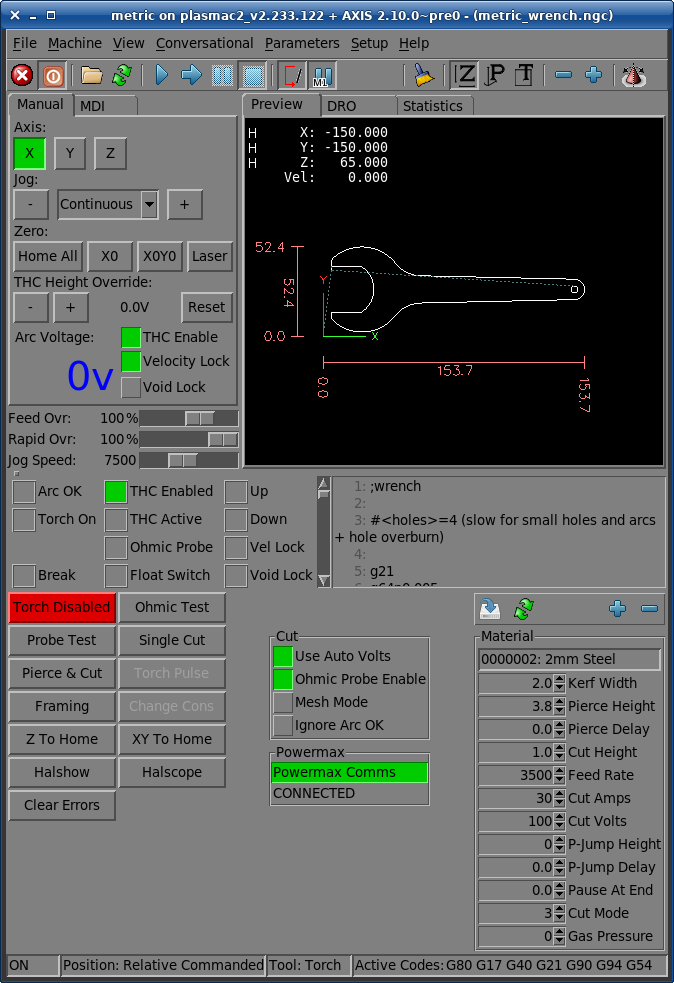
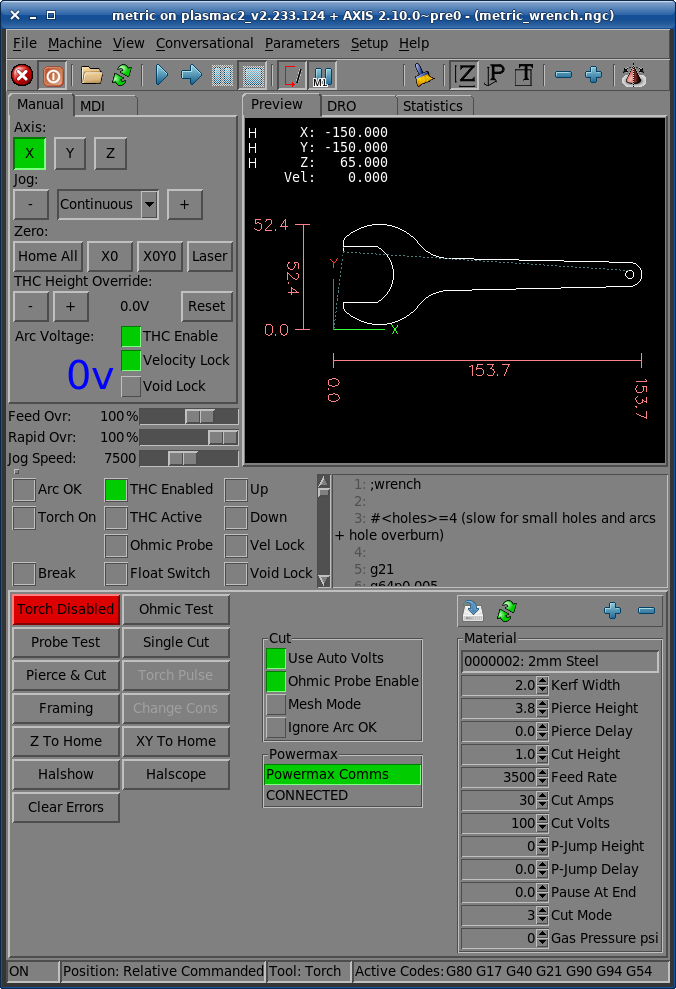
portrait mode enhancements fix pane resizing

diff --git a/source/versions.html b/source/versions.html
@@ -30,6 +30,13 @@
 </table>
 <!--- ****** ADD NEXT VERSION BELOW THESE LINES ****** --->
 <!--- ------------------------------------------------ --->
+<br><b>v2.233.125</b> 2022 Dec 20
+<ul style="margin:0;">
+    <li>portrait mode enhancements</li>
+    <li>fix pane sizing</li>
+    
+</ul>
+
 <br><b>v2.233.124</b> 2022 Dec 19
 <ul style="margin:0;">
     <li>allow orientation selection</li>

diff --git a/source/plasmac2.py b/source/plasmac2.py
@@ -386,43 +386,37 @@ def set_window_size():
         return False
     else:
         if pVars.orient.get() == 'portrait':
-            wHigh = { '7': [ 714,  750],  '8': [ 752,  792],
-                      '9': [ 808,  850], '10': [ 874,  918],
-                     '11': [ 912,  960], '12': [ 956, 1006],
-                     '13': [1054, 1110], '14': [1100, 1154],
-                     '15': [1144, 1200], '16': [1214, 1276],
-                     '17': [1276, 1348], '18': [1330, 1402],
-                     '19': [1364, 1436], '20': [1440, 1514],
+            # window height, window height with pmx enabled, window width, bottom pane height
+            wSize = { '7': [ 720,  756, 644,  92],  '8': [ 7588,  796, 644, 102],
+                      '9': [ 814,  856, 662, 108], '10': [ 880,  924, 664, 116],
+                     '11': [ 918,  966, 734, 124], '12': [ 962, 1012, 806, 132],
+                     '13': [1058, 1114, 878, 140], '14': [1102, 1158, 950, 148],
+                     '15': [1146, 1206,1024, 156], '16': [1214, 1278,1094, 164],
+                     '17': [1270, 1336,1166, 172], '18': [1334, 1404,1166, 180],
+                     '19': [1366, 1438,1240, 188], '20': [1442, 1514,1310, 196],
                     }
             offset = 1 if pmPort else 0
-            height = wHigh[fontSize][offset]
-            wSize = { '7': [ 644,  714, 310,  92],  '8': [ 644,  752, 328, 102],
-                      '9': [ 662,  808, 350, 108], '10': [ 664,  874, 380, 116],
-                     '11': [ 734,  912, 394, 124], '12': [ 806,  956, 412, 132],
-                     '13': [ 878, 1054, 456, 140], '14': [ 950, 1100, 474, 148],
-                     '15': [1024, 1144, 492, 156], '16': [1094, 1214, 522, 164],
-                     '17': [1166, 1276, 552, 172], '18': [1166, 1330, 576, 180],
-                     '19': [1240, 1364, 584, 188], '20': [1310, 1440, 618, 196],
-                    }
-            width  = wSize[fontSize][0]
-            tPane  = wSize[fontSize][2]
+            height = wSize[fontSize][offset]
+            width  = wSize[fontSize][2]
             bPane  = wSize[fontSize][3]
+
         else:
-            wSize = { '7': [456, 310,  92],  '8': [482, 328, 102],
-                      '9': [516, 350, 108], '10': [562, 380, 116],
-                     '11': [586, 394, 124], '12': [612, 412, 132],
-                     '13': [686, 456, 140], '14': [710, 474, 148],
-                     '15': [736, 492, 156], '16': [784, 522, 164],
-                     '17': [811, 552, 172], '18': [858, 576, 180],
-                     '19': [882, 584, 188], '20': [932, 618, 196],
+            # window height, bottom pane height
+            wSize = { '7': [456,  92],  '8': [482, 102],
+                      '9': [516, 108], '10': [562, 116],
+                     '11': [586, 124], '12': [612, 132],
+                     '13': [686, 140], '14': [710, 148],
+                     '15': [736, 156], '16': [784, 164],
+                     '17': [811, 172], '18': [858, 180],
+                     '19': [882, 188], '20': [932, 196],
                     }
             height = wSize[fontSize][0]
             width = int(height * 1.75)
-            tPane = wSize[fontSize][1]
-            bPane = wSize[fontSize][2]
+            bPane = wSize[fontSize][1]
         last = getPrefs(PREF, 'GUI_OPTIONS', 'Window last', 'none', str)
-        rE('.pane paneconfigure $pane_top -minsize {}'.format(tPane))
+        rE('.pane paneconfigure $pane_top -minsize {}'.format(bPane))
         rE('.pane paneconfigure $pane_bottom -minsize {}'.format(bPane))
+        rE('.pane paneconfigure $pane_bottom -height {}'.format(bPane))
         if size == 'maximized':
             root_window.attributes('-fullscreen', False, '-zoomed', True)
         elif size == 'fullscreen':
@@ -435,7 +429,6 @@ def set_window_size():
                 xPos = int((root_window.winfo_screenwidth() - width) / 2)
                 yPos = int((root_window.winfo_screenheight() - height) / 2)
                 root_window.geometry('{}x{}+{}+{}'.format(width, height, xPos, yPos))
-        rE('.pane paneconfigure $pane_bottom -height {}'.format(tPane))
         rC(fsetup + '.r.ubuttons.canvas','xview','moveto',0.0)
         rC(fsetup + '.r.ubuttons.canvas','yview','moveto',0.0)
         root_window.update_idletasks()
@@ -3623,7 +3616,7 @@ def set_orient_frames():
         fruns = '.fportrait.fruns'
         fbuttons = '.fportrait.fbuttons'
         toolmat = fruns + '.toolmat'
-        rC('frame',fportrait,'-relief','flat')#,'-borderwidth',0)
+        rC('frame',fportrait,'-relief','raised','-borderwidth',2)
     else:
         fportrait = '.fportrait'
         fruns = '.fruns'
@@ -3738,7 +3731,7 @@ def make_run_panel():
 #FIXME: move pmx frame up in portrait orientation
 def populate_run_panel():
     if pVars.orient.get() == 'portrait':
-        rC('grid',fportrait,'-column',1,'-row',3,'-sticky','nsew','-padx',0,'-pady',0)
+        rC('grid',fportrait,'-column',1,'-row',3,'-sticky','nsew','-padx',2,'-pady',(0,2))
         rC('grid',fbuttons,'-column',0,'-row',0,'-sticky','nsew','-padx',0,'-pady',0)
         rC('grid',fruns,'-column',2,'-row',0,'-sticky','nsew','-padx',1,'-pady',1)
         rC('grid',fruns + '.check','-column',0,'-row',1,'-sticky','new','-padx',2,'-pady',(0,2))
